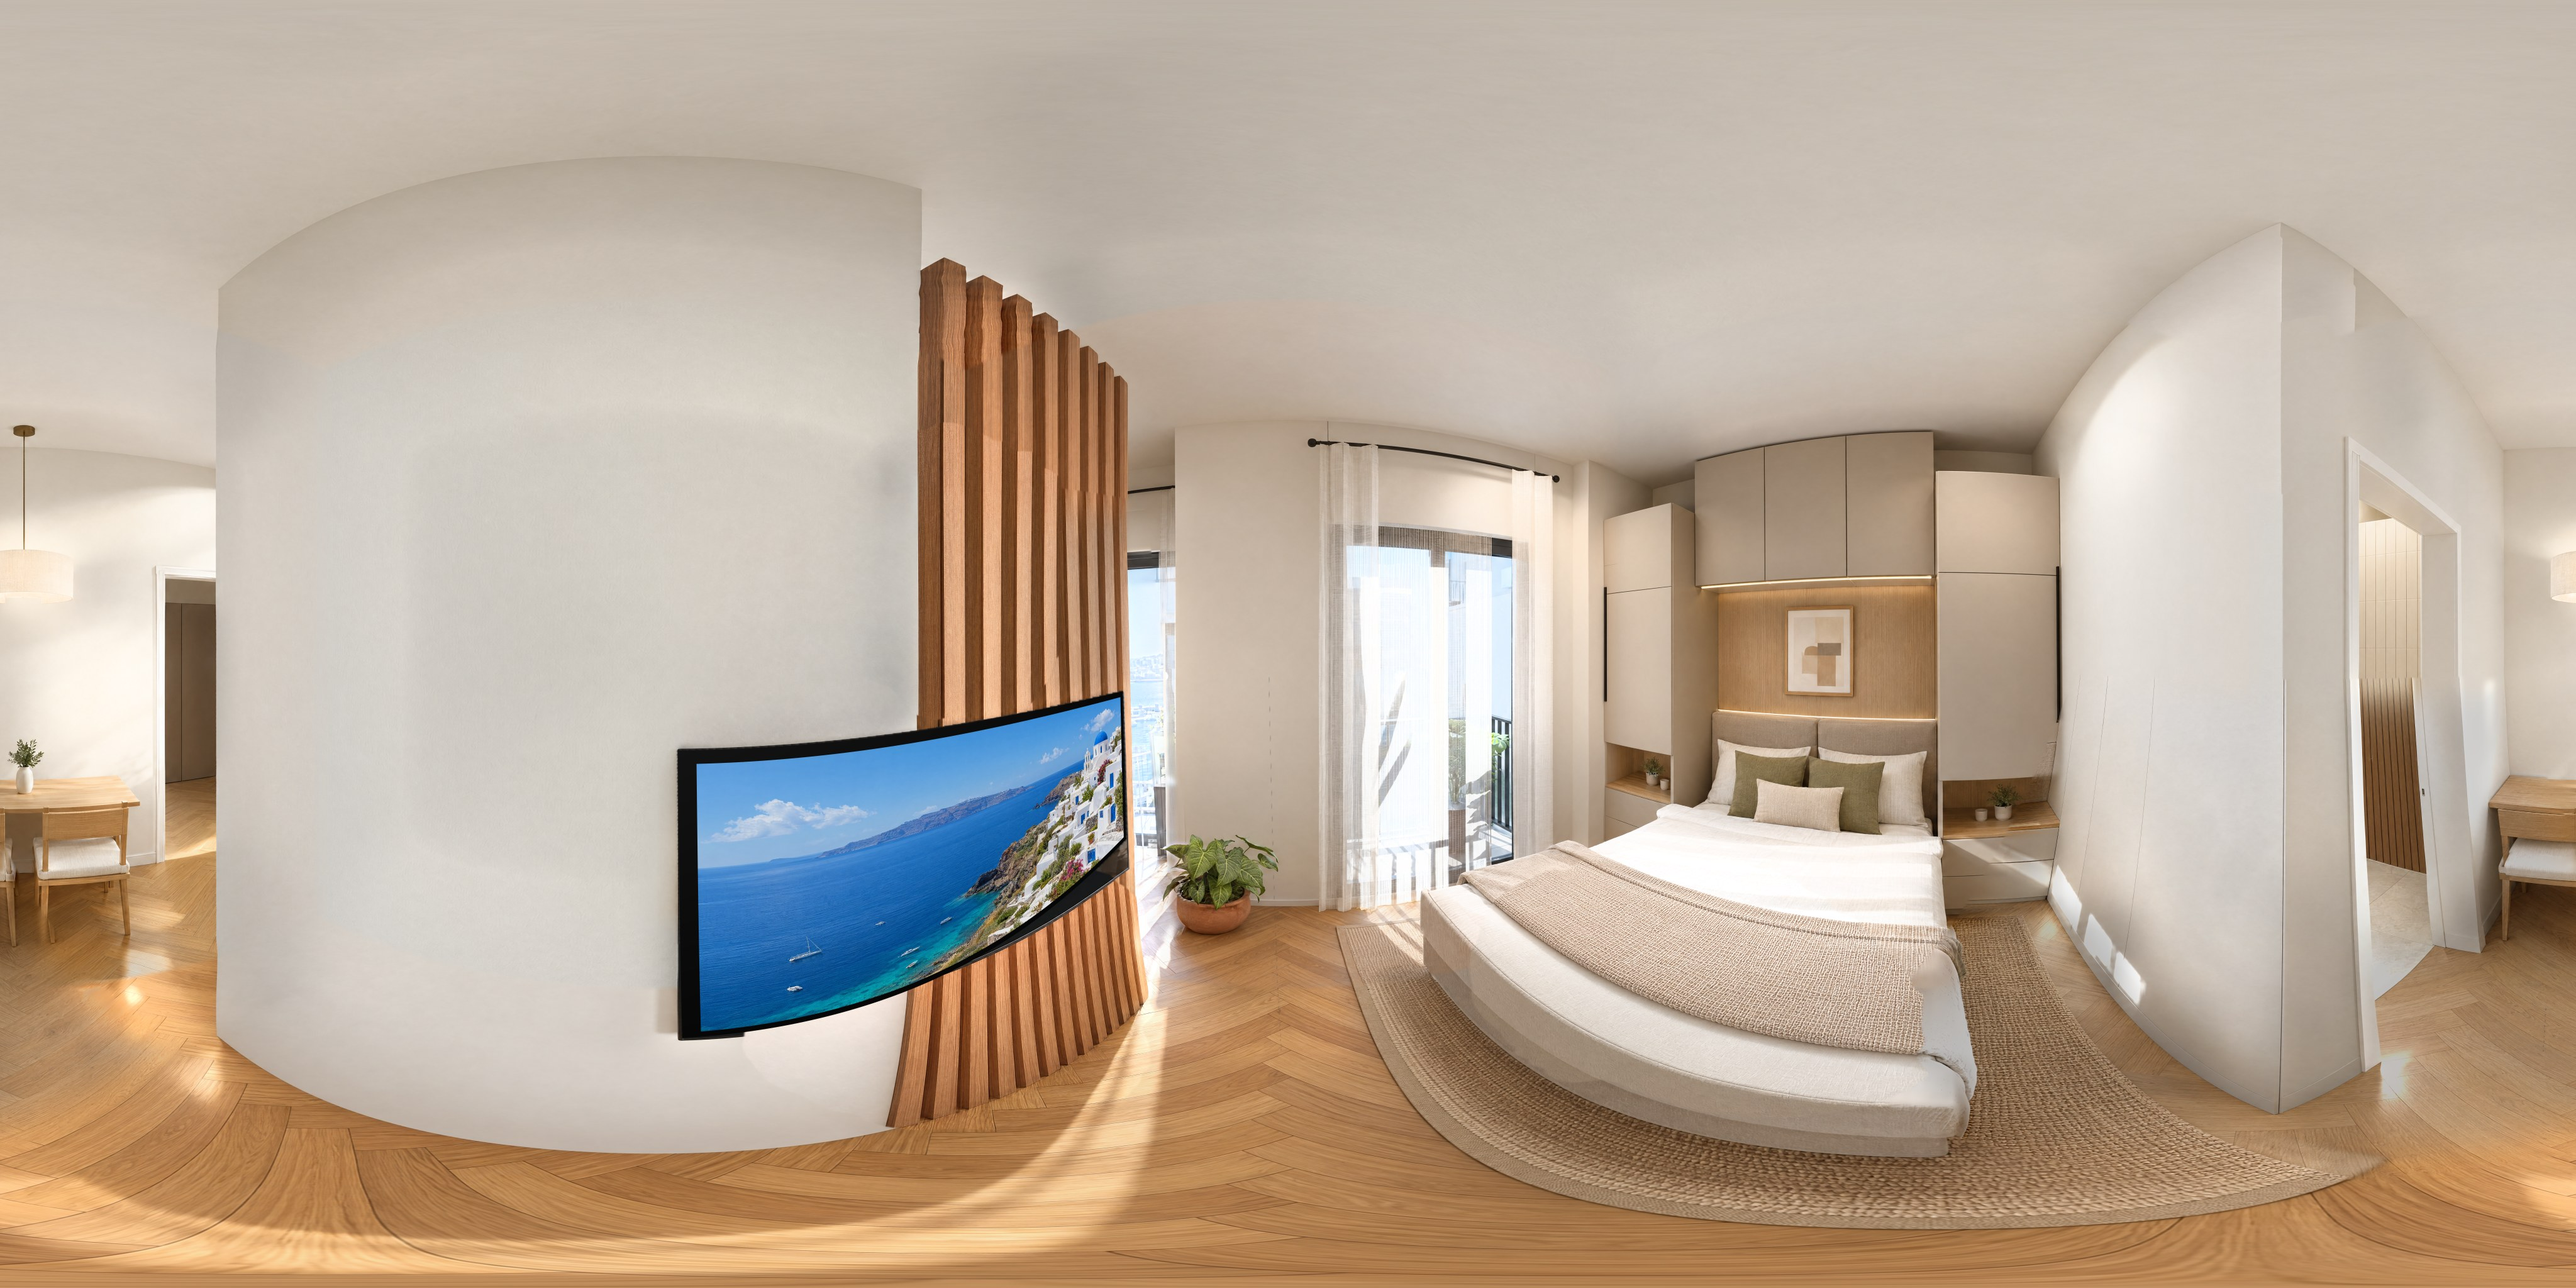
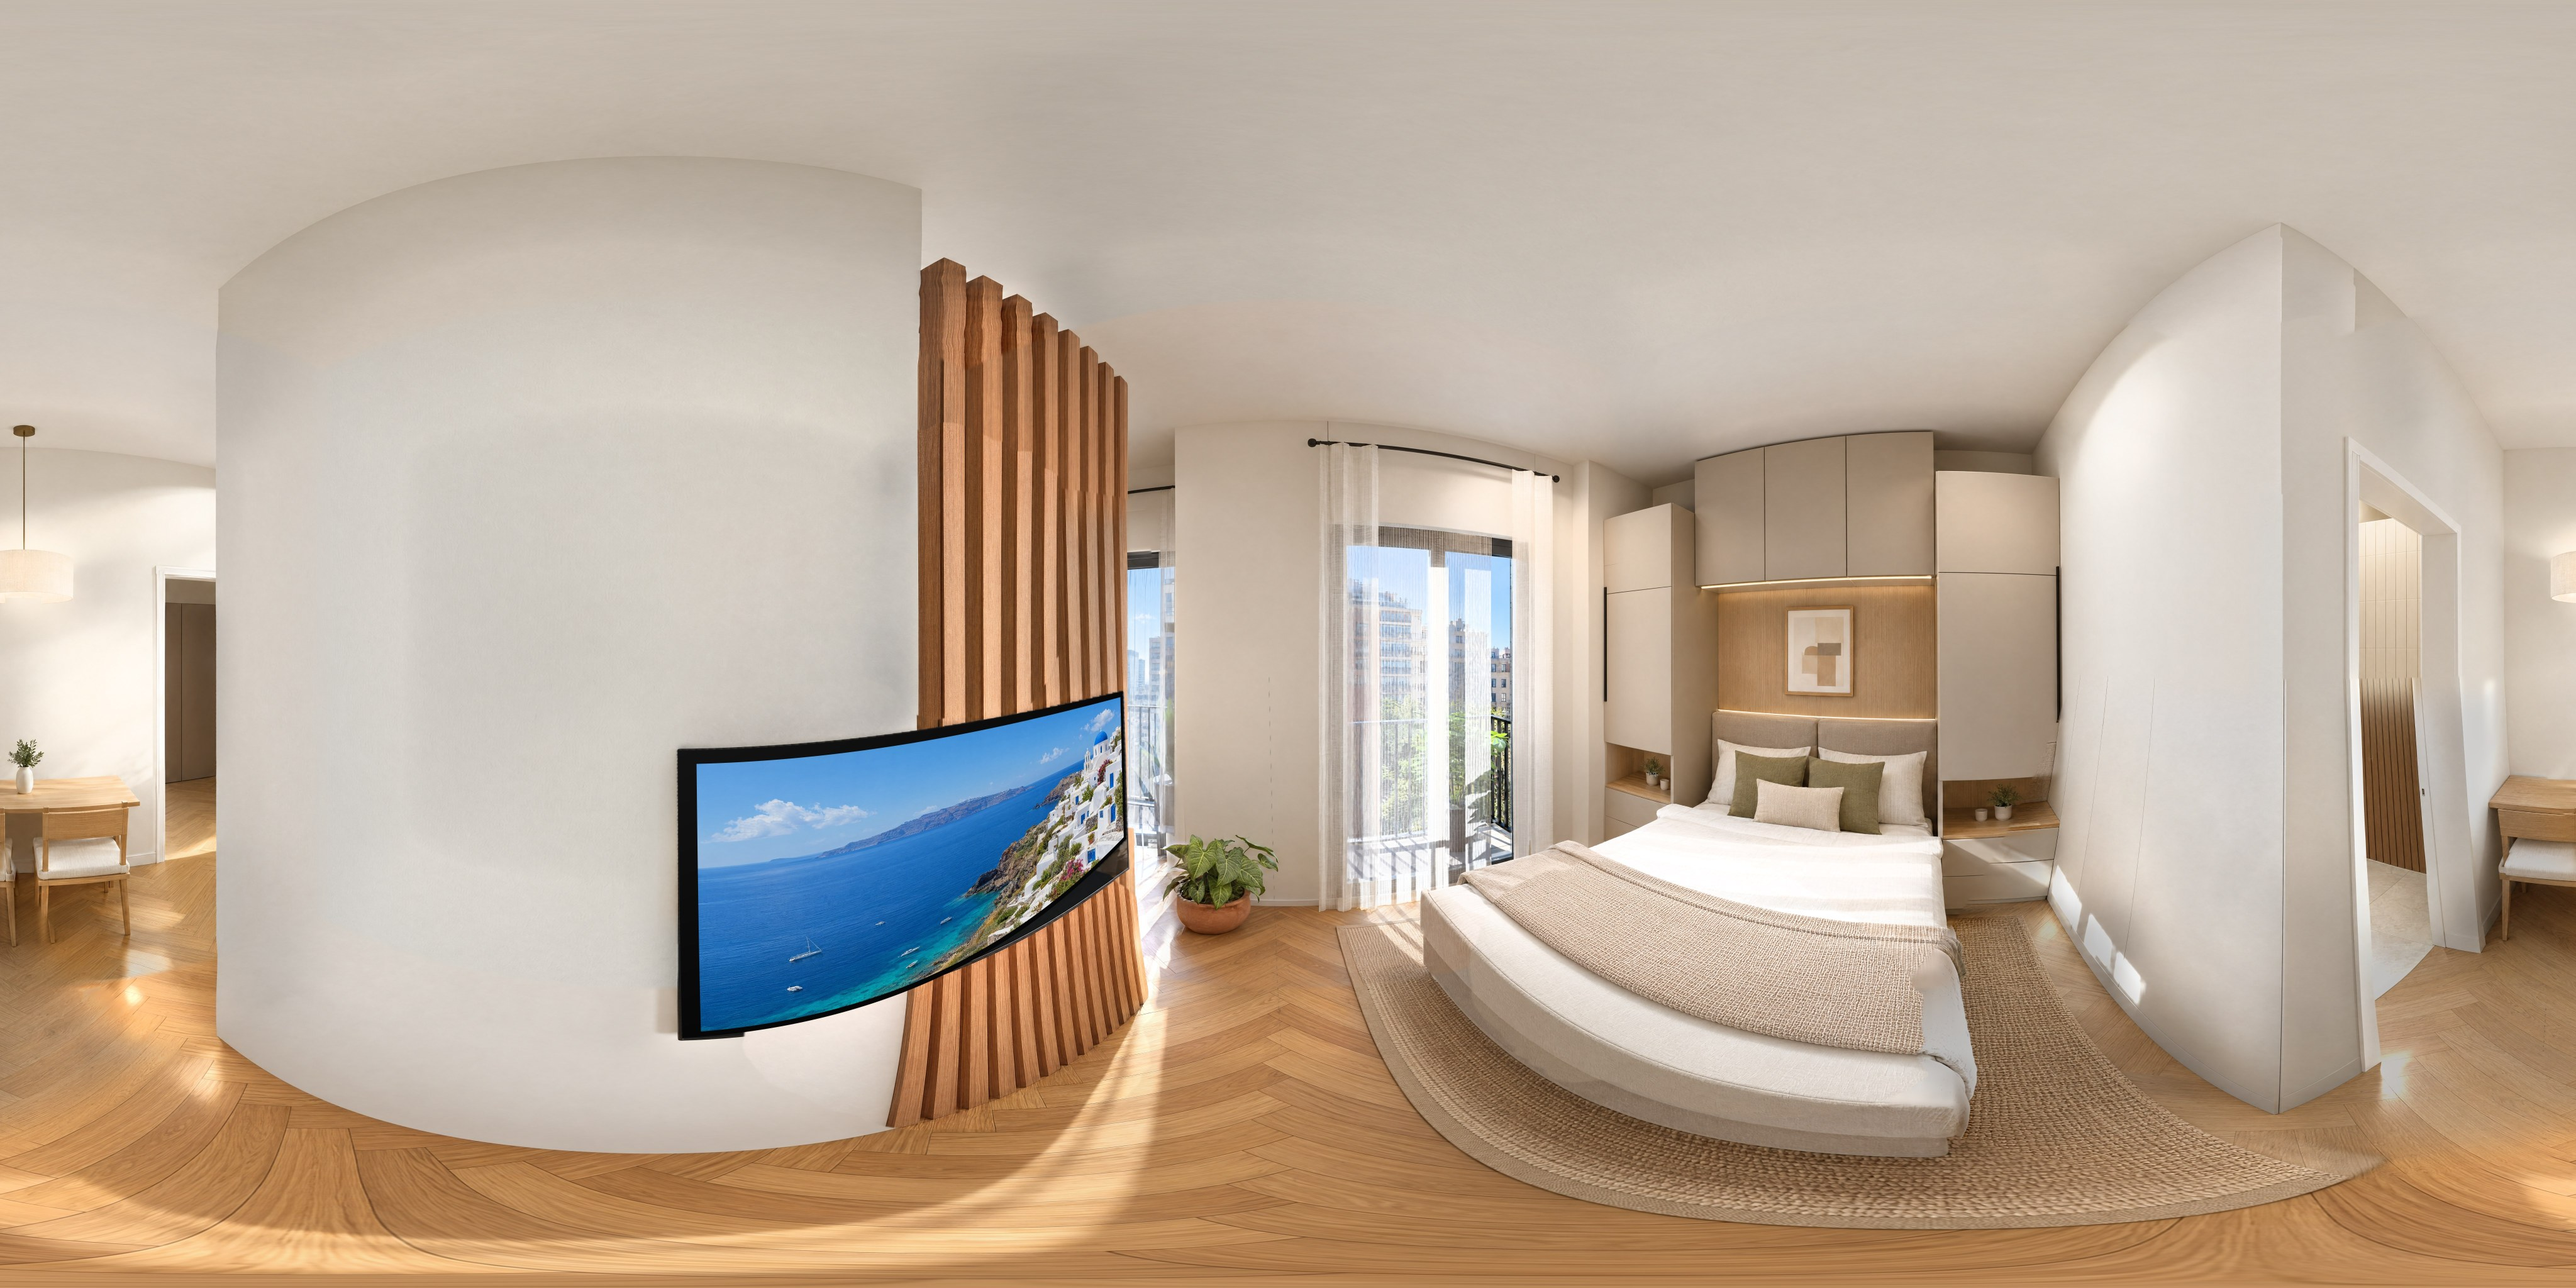
Web edition 6dc4e3b (v2.0.138): v2.0.138

Changed region(s): [[0.5, 0.4062, 0.5938, 0.6875], [0.4375, 0.4375, 0.4688, 0.6562]]

diff --git a/sw.js b/sw.js
@@ -1,4 +1,4 @@
-const V = 'mz-e65886e-2026-11-09-854856a9';
+const V = 'mz-6dc4e3b-2026-11-09-38c7e22e';
 const SHELL = ['./', './index.html', './manifest.webmanifest', './pwa/icon-192.png', './pwa/icon-512.png', './pwa/apple-touch-icon.png'];
 self.addEventListener('install', (e) => { e.waitUntil(caches.open(V).then((c) => c.addAll(SHELL)).then(() => self.skipWaiting())); });
 self.addEventListener('activate', (e) => {
